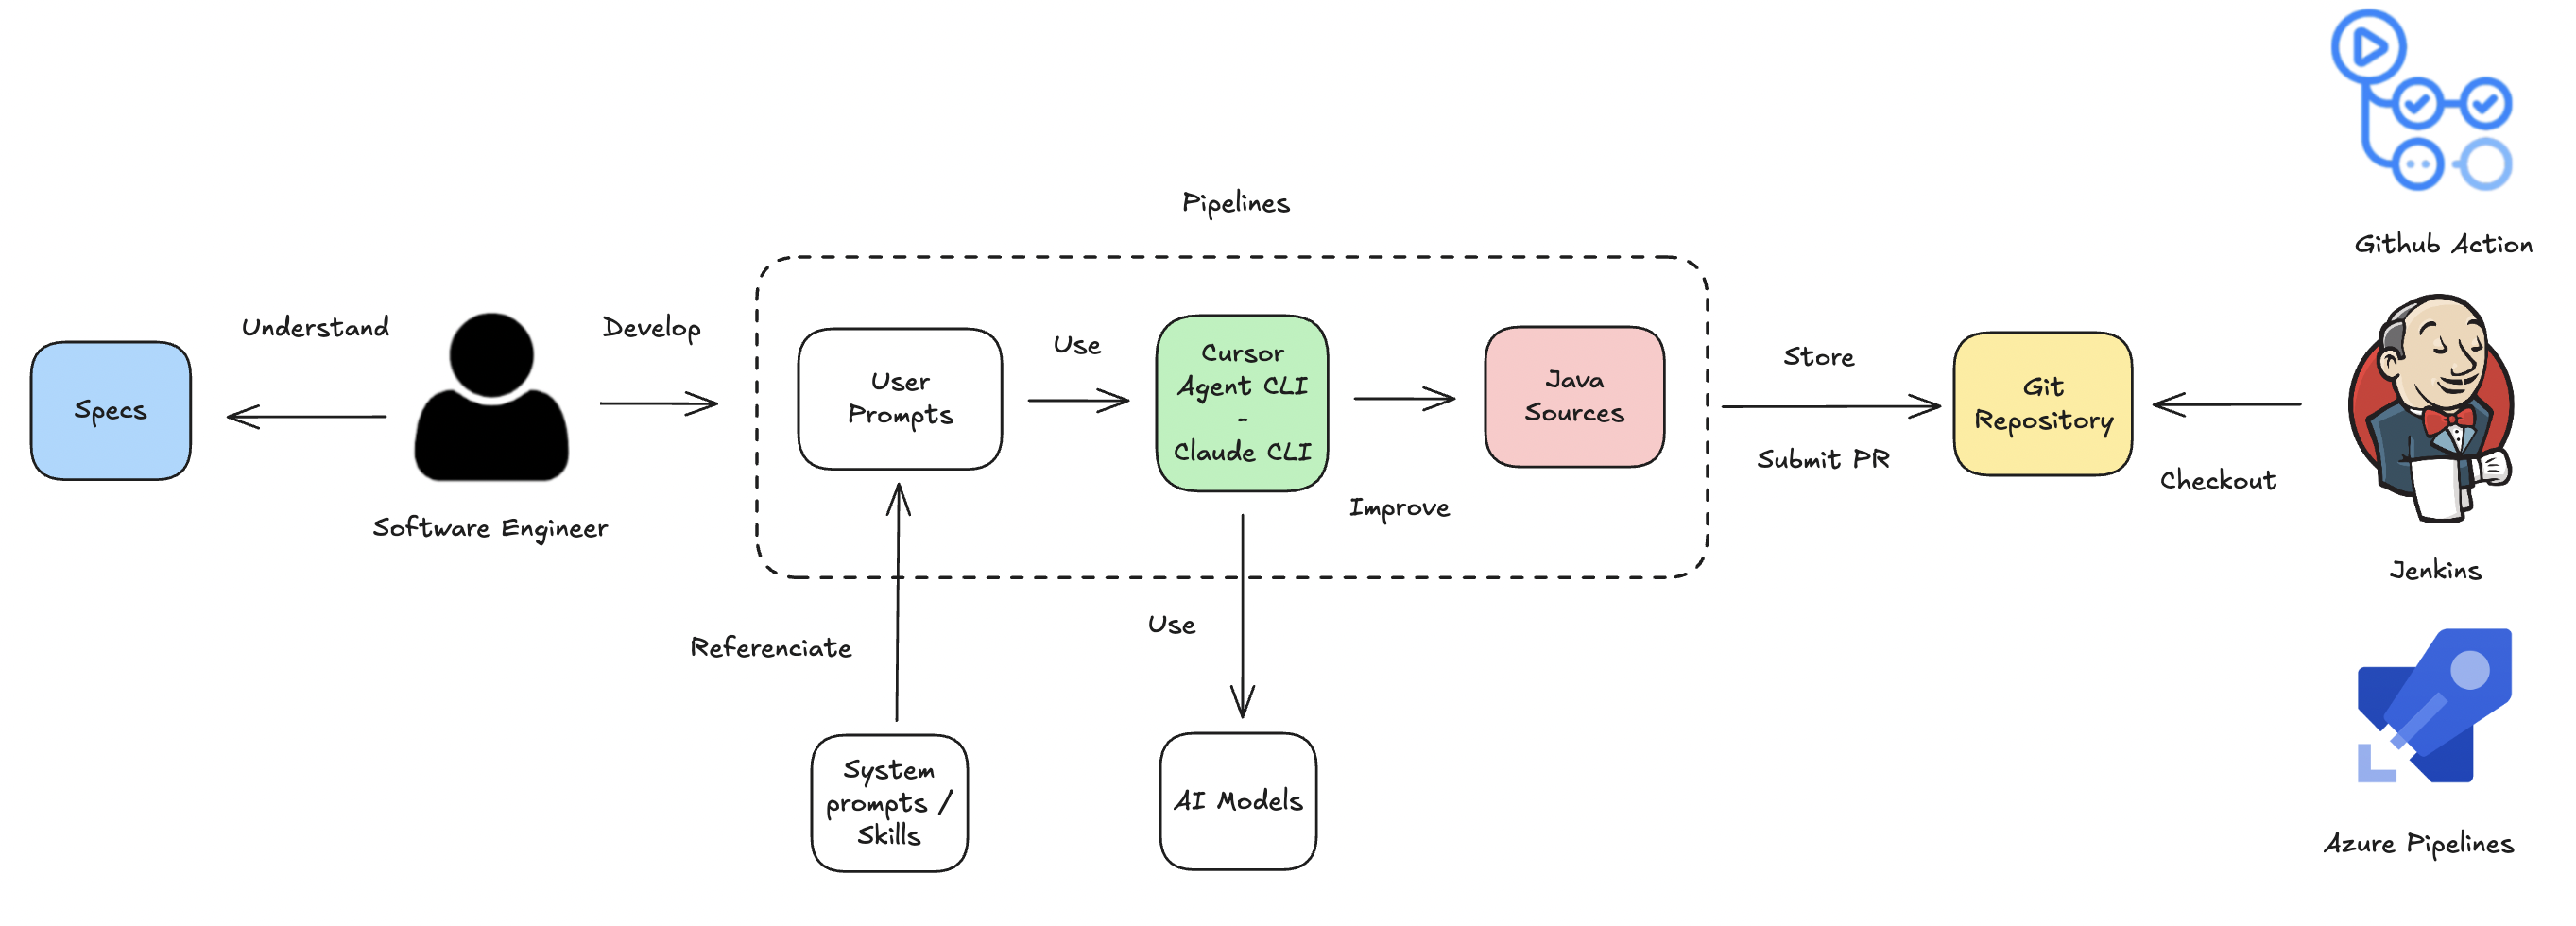
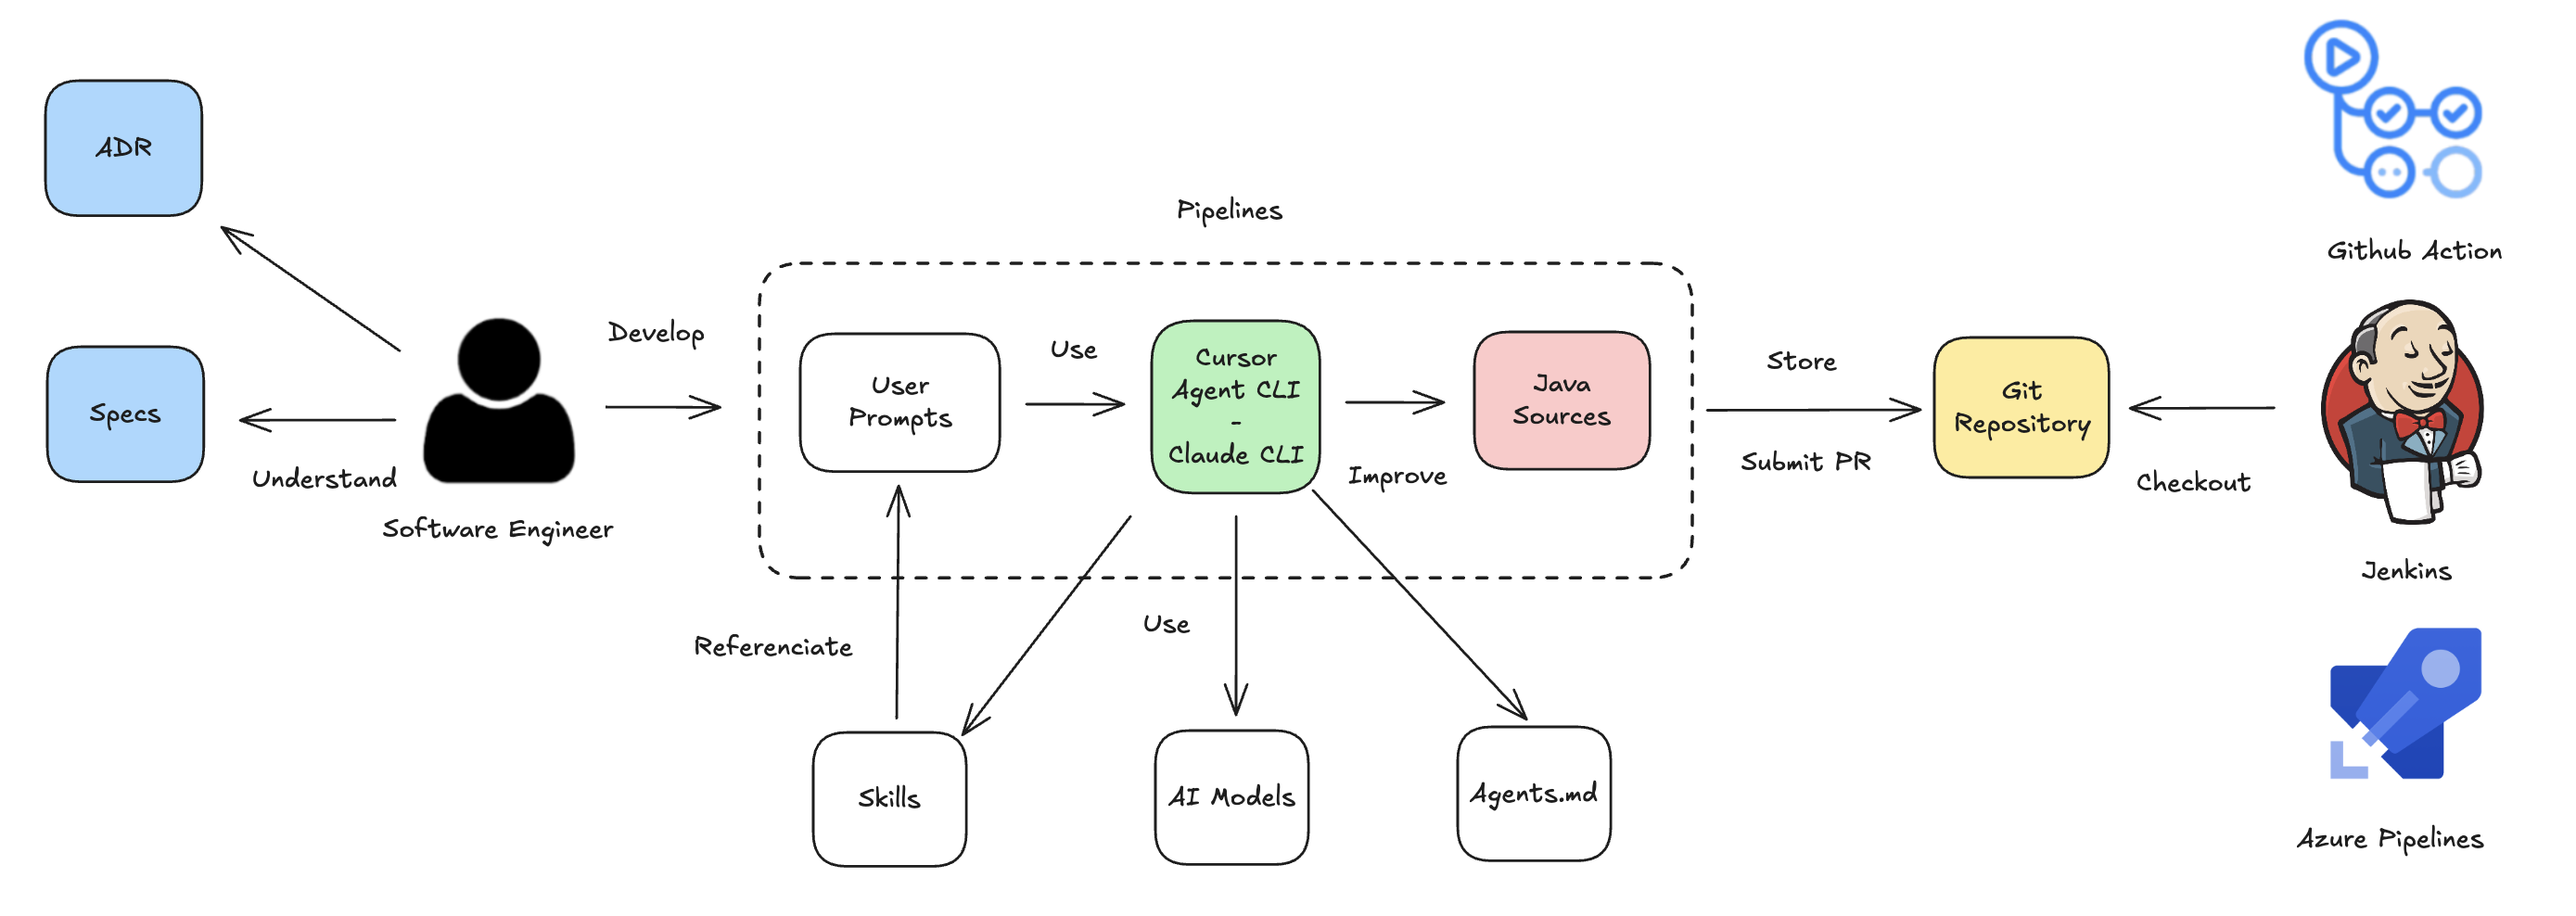
docs(cm): Improving theory slides for Codemotion madrid

diff --git a/documentation/conferences/codemotion-madrid-2026/index.html b/documentation/conferences/codemotion-madrid-2026/index.html
@@ -35,9 +35,9 @@
 			</div>
 			<div class="slides">
                 <section>
-					<section data-background-image="./images/background-waves.webp">
+					<section data-background-image="./images/pillars2.jpg">
 						<h2>
-                            <span style="display: inline-block; color: black;  background: #DFFF6D;">
+                            <span style="display: inline-block; color: black;  background: #ffffff;">
                                 Taller técnico sobre AI Tooling para el desarrollo con Java
                             </span>
                         </h2>
@@ -94,24 +94,36 @@
                 </section>
                 <section>
                     <section>
-                        <h2>Agenda (90 min)</h2>
+                        <h2>Agenda (15 min)</h2>
                         <ul>
-                            <li>Introducción</li>
                             <li>¿Como desarrollas?</li>
                             <li>Conceptos</li>
+                            <!--
                             <li>Evolucionando el SDLC</li>
                             <li>Workflows</li>
-                            <li>Demos</li>
+                            -->
                         </ul>
                     </section>
                     <section>
-                        <h2>Agenda (90 min)</h2>
-                        <h3>Demos</h3>
+                        <h2>Agenda (30 min)</h2>
+                        <h3>Demos I</h3>
                         <ul>
-                            <li>Usando los modos de Agente (Ask, Plan, Agent)</li>
                             <li>Usando Skills</li>
                             <li>Definiendo un buen fichero AGENTS.md</li>
                             <li>Usando Agentes en tu desarrollo</li>
+                        </ul>
+                    </section>
+                    <section>
+                        <h2>Agenda (30 min)</h2>
+                        <h3>Demos II</h3>
+                        <ul>
+                            <li>Usando los modos de Agente (Ask, Plan, Agent)</li>
+                        </ul>
+                    </section>
+                    <section>
+                        <h2>Agenda (15 min)</h2>
+                        <h3>Demos III</h3>
+                        <ul>
                             <li>Usando Asistentes AI en tus pipelines</li>
                         </ul>
                     </section>
@@ -132,16 +144,25 @@
                 <section>
                     <section>
                         <h2>¿Como desarrollas?</h2>
+                        <img src="./images/trivia.png" width="20%" />
+                    </section>
+                    <section>
+                        <h2>¿Como desarrollas?</h2>
                         <ul>
-                            <li>Coges una Historia de Usuario en Jira</li>
+                            <li>¿Como son las historias de usuario?</li>
                             <ul>
                                 <li>Anemica</li>
                                 <li>Completa</li>
                             </ul>
-                            <li>Revisas los ADRs de tu area</li>
+                        </ul>
+                    </section>
+                    <section>
+                        <h2>¿Como desarrollas?</h2>
+                        <ul>
+                            <li>¿Como son los ADRs de tu área?</li>
                             <ul>
                                 <li>No existen</li>
-                                <li>Estan Obsoletos</li>
+                                <li>Están Obsoletos</li>
                                 <li>Se actualizan periodicamente</li>
                             </ul>
                         </ul>
@@ -149,18 +170,22 @@
                     <section>
                         <h2>¿Como desarrollas?</h2>
                         <ul>
-                            <li>Revisas la historia de usuario para encontrar el mejor enfoque de implementación</li>
+                            <li>¿Como te organizas para desarrollar las historias de usuario?</li>
                             <ul>
                                 <li>Trabajo solo</li>
                                 <li>Comentamos todas las mañanas</li>
                                 <li>Hago Pair programming</li>
                             </ul>
+                        </ul>
+                    </section>
+                    <section>
+                        <h2>¿Como desarrollas?</h2>
+                        <ul>
                             <li>Desarrollo tests</li>
                             <ul>
                                 <li>Si nos da tiempo</li>
                                 <li>Es obligatorio</li>
                             </ul>
-                            ...
                         </ul>
                     </section>
                     <section>
@@ -180,14 +205,16 @@
                     <section>
                         <h2>Conceptos</h2>
                         <ul>
-                            <li>Asistente AI</li>
-                            <li>ADR</li>
-                            <li>Spec</li>
-                            <li>Plan</li>
-                            <li>Skill</li>
-                            <li>Agent</li>
+                            <li>Asistentes AI</li>
+                            <li>LLMs</li>
+                            <li>AGENTS.md</li>
+                            <li>Skills</li>
+                            <li>Subagents</li>
                             <li>MCP/CLI tools</li>
-                            <li>Workflow</li>
+                            <li>ADRs</li>
+                            <li>Plans</li>
+                            <li>SDD</li>
+                            <li>Workflows</li>
                         </ul>
                     </section>
                     <section>
@@ -197,8 +224,156 @@
                             como Cursor, Claude Code, GitHub Copilot, entre otros.
                         </p>
                     </section>
+                    <section>
+                        <h2>Asistentes de AI</h2>
+                        <table>
+                            <tr>
+                                <td><img src="./images/logos/cursor-logo.avif" width="25%" /><br /><small>Cursor AI</small></td>
+                                <td><img src="./images/logos/cursor-cli-logo.png" width="30%" /><br /><small>Cursor CLI</small></td>
+                                <td><img src="./images/logos/claude-code-logo.png" width=40%" /><br /><small>Claude Code CLI</small></td>
+                            </tr>
+                            <tr>
+                                <td><img src="./images/logos/github-copilot-logo-v2.png" width=45%" /><br /><small>GitHub Copilot</small>
+                                </td>
+                                <td><img src="./images/logos/github-copilot-logo-v3.webp" width=30%" /><br /><small>GitHub Copilot
+                                        CLI</small></td>
+                                <td><img src="./images/logos/jetbrains-junie-logo.png" width="45%" /><br /><small>JetBrains Junie</small>
+                                </td>
+                                <td></td>
+                            </tr>
+                        </table>
+                    </section>
+                    <section>
+                        <h2>LLMs</h2>
+                        <p>
+                            Los LLM (Large Language Models) son sistemas de Inteligencia Artificial entrenados con
+                            volúmenes masivos de texto para comprender, generar y resumir lenguaje humano de forma natural.
+                        </p>
+                    </section>
+                    <section>
+                        <h2>AGENTS.md</h2>
+                        <p>
+                            Un formato abierto y sencillo para guiar a los agentes de programación.
+                            Piensa en AGENTS.md como un README para agentes: un lugar dedicado y predecible donde ofrecer el contexto y las instrucciones para ayudar a los agentes de codificación con IA a trabajar en tu proyecto.
+                        </p>
+                        <a href="https://agents.md/" target="_blank">https://agents.md/</a>
+                    </section>
+                    <section>
+                        <h2>Skill</h2>
+                        <p>
+                            Las Skills son carpetas de instrucciones, scripts y recursos que las herramientas de IA cargan dinámicamente
+                            para mejorar el rendimiento
+                            en tareas especializadas.
+                        </p>
+                    </section>
+                    <section>
+                        <h2>Skill</h2>
+                        <p>
+                            Estructura de una Skill:
+                        </p>
+                        <pre><code class="hljs bash" data-trim data-line-numbers>
+skill-name/
+├── SKILL.md # Required: metadata + instructions
+├── scripts/ # Optional: executable code
+├── references/ # Optional: documentation
+├── assets/ # Optional: templates, resources
+└── ... # Any additional files or directories
+                        </code>
+                        </pre>
+                        <a href="https://agentskills.io/specification" target="_blank">https://agentskills.io/specification</a>
+                    </section>
+                    <section>
+                        <h2>Skill</h2>
+                        <p>
+                            ¿Donde puede encontrar Skills para Java?
+                        </p>
+                        <a href="https://skills.sh/" target="_blank">https://skills.sh/</a>
+                    </section>
+                    <section>
+                        <h2>Subagents</h2>
+                        <p>
+Los Subagents son asistentes de IA especializados que el agente de Cursor puede delegar tareas. Cada subagente opera en su propia
+ventana de contexto, maneja tipos de trabajo específicos y devuelve su resultado al agente principal.
+                        </p>
+                        <a href="https://cursor.com/docs/subagents" target="_blank">https://cursor.com/docs/subagents</a><br />
+                        <a href="https://code.claude.com/docs/en/sub-agents" target="_blank">https://code.claude.com/docs/en/sub-agents</a>
+
+                    </section>
+                    <section>
+                        <h3>MCP Severs</h3>
+                        <img src="images/mcp.png" width="50%" />
+                        <p>
+                            Model Context Protocol (MCP) is an open protocol that standardizes how applications provide context to LLMs.
+                        </p>
+                        <small><strong>Source: </strong><a href="https://modelcontextprotocol.io/introduction"
+                                target="_blank">https://modelcontextprotocol.io/introduction</a></small>
+                    </section>
+                    <section>
+                        <h3>MCP Severs</h3>
+                        <p>
+                            Think of MCP as a plugin system for Cursor:
+                        </p>
+                        <img src="images/mcp-architecture.png" width="50%" />
+                        <small><strong>Source: </strong><a href="https://docs.cursor.com/context/model-context-protocol"
+                                target="_blank">https://docs.cursor.com/context/model-context-protocol</a></small>
+                    </section>
+                    <section>
+                        <h2>ADRs</h2>
+                        <p>
+                            An Architectural Decision (AD) is a justified design choice that addresses
+                            a functional or non-functional requirement
+                            that is architecturally significant.
+                        </p>
+                        <a href="https://adr.github.io/" target="_blank">https://adr.github.io/</a>
+                    </section>
+                    <section>
+                        <h2>Plans</h2>
+                        <p>
+                            Los planes son una forma de guiar al agente para que trabaje en una tarea.
+                        </p>
+                        <a href="https://cursor.com/docs/agent/plan-mode" target="_blank">https://cursor.com/docs/agent/plan-mode</a><br />
+                        <a href="https://code.claude.com/docs/en/common-workflows" target="_blank">https://code.claude.com/docs/en/common-workflows</a>
+                    </section>
+                    <section>
+                        <h2>Plans</h2>
+                        <img src="./images/plan-mode.png" width="60%" />
+                    </section>
+                    <section>
+                        <h2>SDD</h2>
+                        <p>
+                            Spec-driven development (SDD) is a software engineering methodology where a formal, machine-readable specification
+                            serves as the authoritative source of truth and the primary artifact from which implementation, testing, and
+                            documentation are derived.
+                        </p>
+                        <a href="https://openspec.dev/" target="_blank">https://openspec.dev/</a><br />
+                        <a href="https://github.github.com/spec-kit/" target="_blank">https://github.github.com/spec-kit/</a>
+                    </section>
+                    <section>
+                        <h2>Workflows</h2>
+                        <ul>
+                            <li>Prompting Enginering Workflow</li>
+                            <li>Agent-Driven Engineering Workflow</li>
+                            <li>Pipelines Workflow</li>
+                        </u>
+                    </section>
+                    <section>
+                        <h2>Workflows</h2>
+                        <h3>Prompting Enginering Workflow</h3>
+                        <img src="./images/workflow-prompts.png" width="100%" />
+                    </section>
+                    <section>
+                        <h2>Workflows</h2>
+                        <h3>Agent-Driven Engineering Workflow</h3>
+                        <img src="./images/workflow-agents.png" width="100%" />
+                    </section>
+                    <section>
+                        <h2>Workflows</h2>
+                        <h3>Pipelines Workflow</h3>
+                        <img src="./images/workflow-pipelines.png" width="100%" />
+                    </section>
                 </section>
 
+                <!--
                 <section>
                     <section>
                         <h2>Evolucionando el SDLC</h2>
@@ -272,14 +447,54 @@
                         <img src="./images/workflow-pipelines.png" width="100%" />
                     </section>
                 </section>
+                -->
                 <section>
                     <section>
-                        <img src="./images/demo.png" width="100%" />
+                        <h2>Demos I</h2>
+                        <ul>
+                            <li>Usando Skills</li>
+                            <li>Definiendo un buen fichero AGENTS.md</li>
+                            <li>Usando Agentes en tu desarrollo</li>
+                        </ul>
+                    </section>
+                    <section>
+                        <section>
+                            <img src="./images/demo.png" width="100%" />
+                        </section>
+                    </section>
+                </section>
+                <section>
+                    <section>
+                        <h2>Demos II</h2>
+                        <ul>
+                            <li>Usando los modos de Agente (Ask, Plan, Agent)</li>
+                        </ul>
+                    </section>
+                    <section>
+                        <section>
+                            <img src="./images/demo.png" width="100%" />
+                        </section>
+                    </section>
+                </section>
+                <section>
+                    <section>
+                        <h2>Demos III</h2>
+                        <ul>
+                            <li>Usando Asistentes AI en tus pipelines</li>
+                        </ul>
+                    </section>
+                    <section>
+                        <section>
+                            <img src="./images/demo.png" width="100%" />
+                        </section>
                     </section>
                 </section>
                 <section>
                     <h2>References</h2>
                     <ul>
+                        <li>
+                            <a href="https://skills.sh/" target="_blank">https://skills.sh/</a>
+                        </li>
                         <li>
                             <a href="https://github.com/jabrena/cursor-rules-java" target="_blank">
                                 Cursor Rules Java @ jabrena

diff --git a/README.md b/README.md
@@ -35,17 +35,17 @@ This project is compatible with any tool that supports `Skills`, `Agents`, `AGEN
 
 ## How to use them
 
-The SDLC has evolved with this new wave of AI tooling, which enhances the software engineering process. While building this project, we identified three workflows: `Prompt Engineering Workflow`, `Pipelines Workflow`, and `Agentic Workflow`.
+The SDLC has evolved with this new wave of AI tooling, which enhances the software engineering process. While building this project, we identified three workflows: `Prompting Engineering Workflow`, `Agent-driven Engineering Workflow`, `Pipelines Workflow`.
 
-### Prompt Engineering Workflow
+### Prompting Engineering Workflow
 
 In this workflow, the software engineer interacts with models using `User prompts`. In an incremental way, you delegate a whole task or ask for help at specific points. You can use this project to refactor generated code, or delegate the task and attach a system prompt or Skills to it.
 
 ![](./documentation/images/workflow-prompts.png)
 
-### Agentic Workflow
+### Agent-driven Engineering Workflow
 
-`Agents for Java Enterprise development` were designed to help the software engineer in the implementation phase. The engineer defines solid `Specs`, and those specifications are delegated to Agents.
+`Agents for Java Enterprise development` were designed to help the software engineer in the implementation phase. The engineer defines solid `Specs`, and those specifications are delegated to `Agents`.
 
 ![](./documentation/images/workflow-agents.png)
 